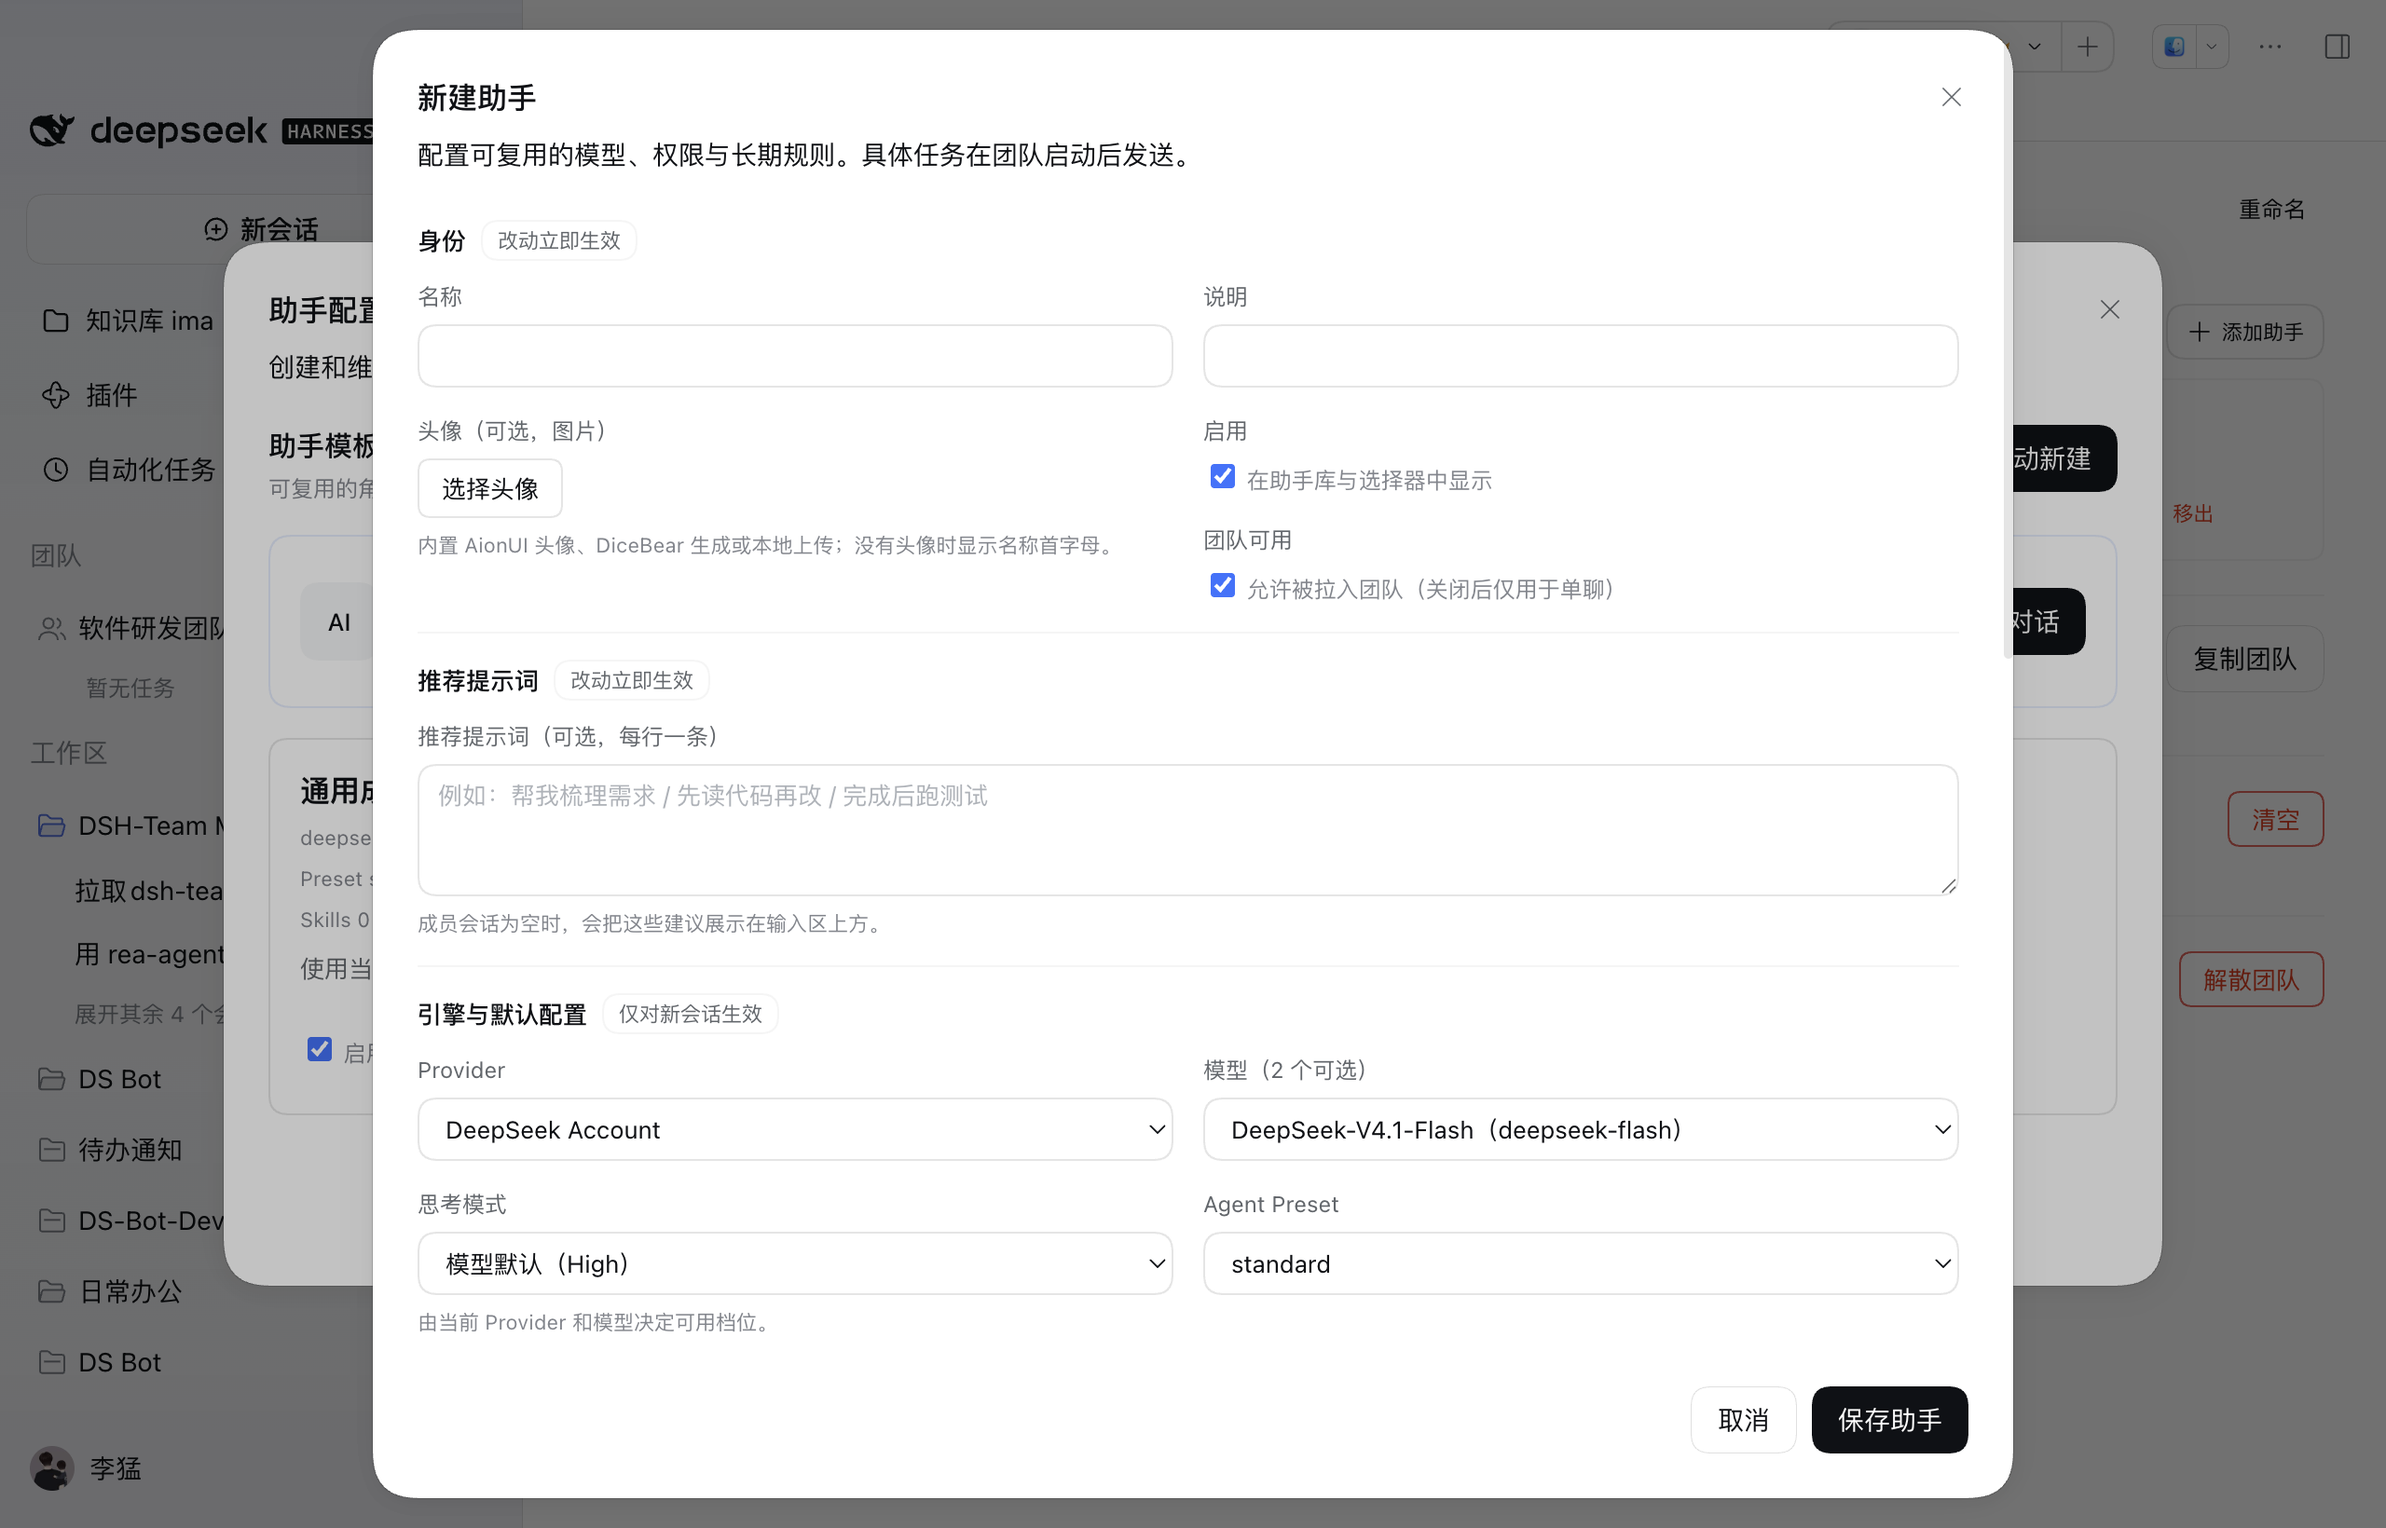
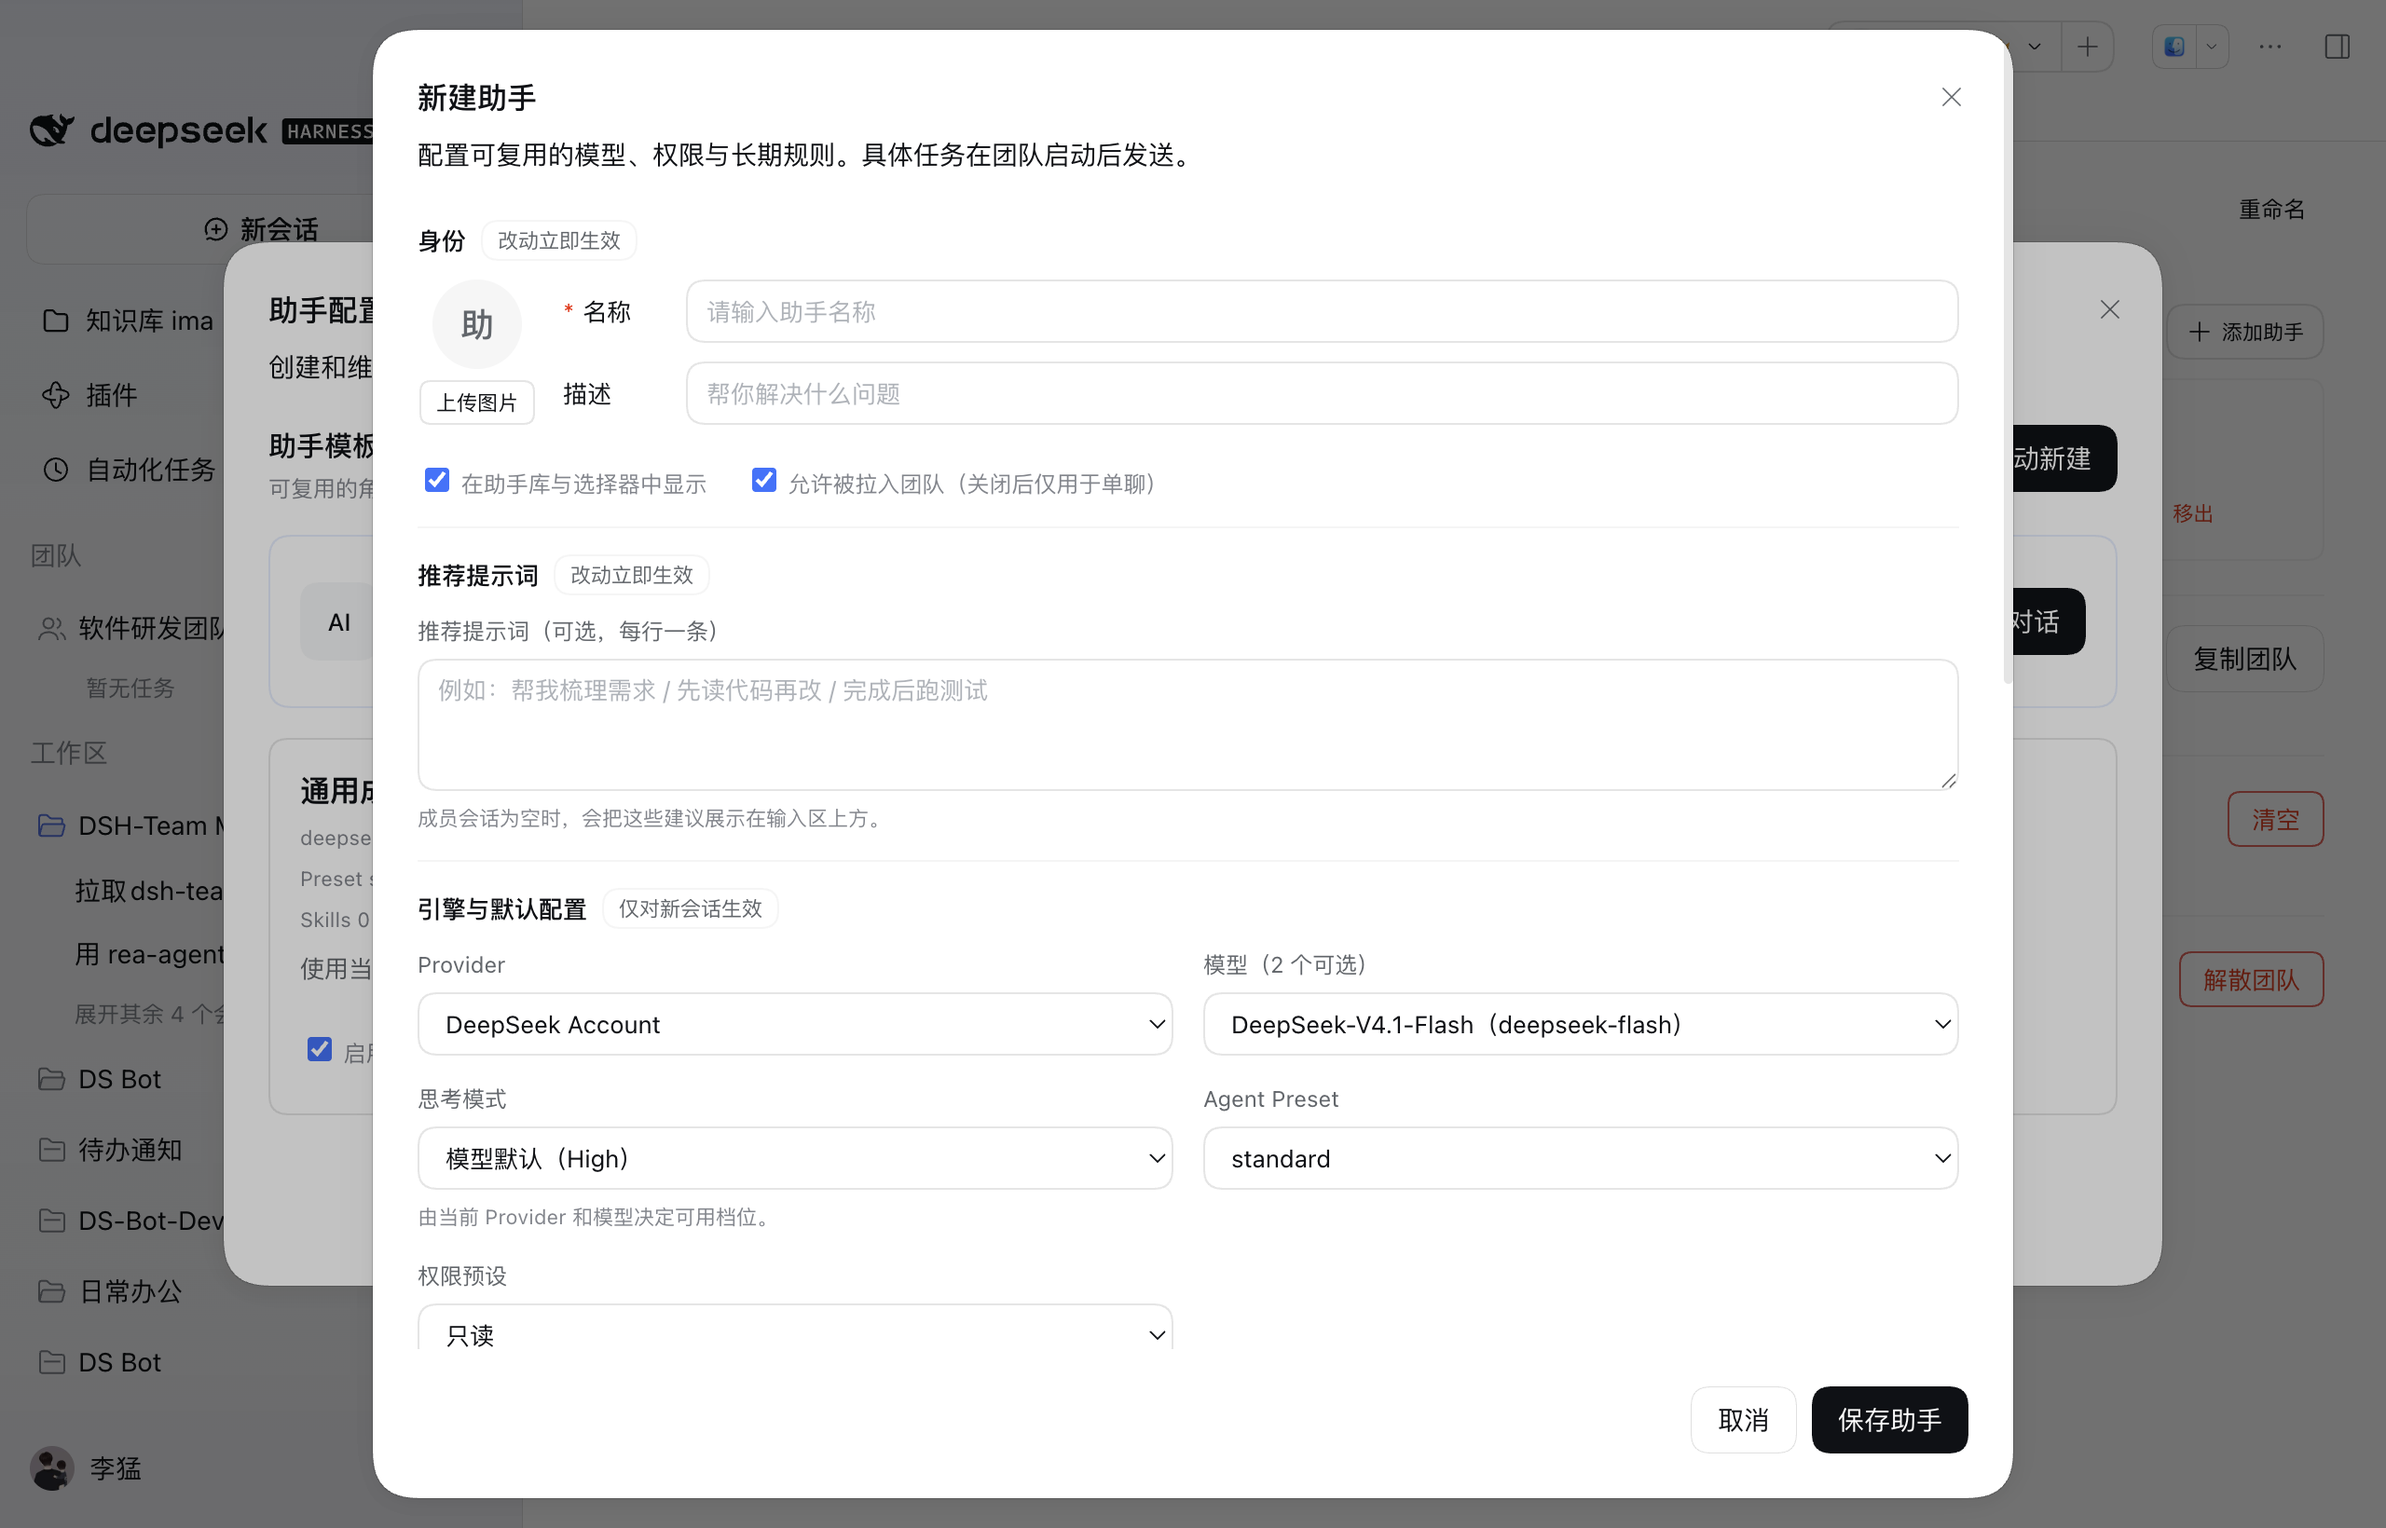
style(ui): inline assistant identity form

diff --git a/src/client/assistants/AssistantPanel.tsx b/src/client/assistants/AssistantPanel.tsx
@@ -1,5 +1,6 @@
 import type { FormEvent } from 'react'
 import { BUILTIN_ASSISTANT_AVATARS } from '../assistant-avatars.js'
+import { MemberAvatar } from '../member-avatar.js'
 
 const DICEBEAR_STYLES = [
   { id: 'bottts', label: '机器人' },
@@ -1126,38 +1127,39 @@ function AssistantForm({
           <strong>身份</strong>
           <span className={css.assistantFormSectionHint}>改动立即生效</span>
         </div>
-        <div className={css.formGrid}>
-        <Field label="名称"><input required value={name} onChange={event => { setName(event.target.value) }} className={css.input} /></Field>
-        <Field label="说明"><input value={description} onChange={event => { setDescription(event.target.value) }} className={css.input} /></Field>
-        <Field label="头像（可选，图片）">
-          <div className={css.avatarField}>
-            {avatar !== '' && <img className={css.avatarPreview} src={avatar} alt="头像预览" />}
-            <button type="button" className={css.avatarUpload} onClick={() => { setDraftAvatar(avatar); setAvatarPickerOpen(true) }}>
-              选择头像
+        <div className={css.assistantIdentityGrid}>
+          <div className={css.assistantIdentityAvatar}>
+            <MemberAvatar name={name.trim() || '助手'} avatar={avatar !== '' ? avatar : undefined} size={48} />
+            <button type="button" className={css.assistantAvatarButton} onClick={() => { setDraftAvatar(avatar); setAvatarPickerOpen(true) }}>
+              {avatar === '' ? '上传图片' : '更换图片'}
             </button>
             {avatar !== '' && (
               <button type="button" className={css.assistantRemoveAvatar} onClick={() => { setAvatar('') }}>
-                移除头像
+                移除
               </button>
             )}
           </div>
-          <span className={css.hint}>内置 AionUI 头像、DiceBear 生成或本地上传；没有头像时显示名称首字母。</span>
-        </Field>
-        <div className={css.assistantToggleColumn}>
-          <Field label="启用">
-            <label className={css.muted}>
-              <input type="checkbox" checked={enabled} onChange={event => { setEnabled(event.target.checked) }} />
-              {' '}在助手库与选择器中显示
+          <div className={css.assistantIdentityFields}>
+            <label className={css.assistantInlineField}>
+              <span className={css.assistantInlineLabel}><span className={css.assistantRequired} aria-hidden="true">*</span> 名称</span>
+              <input required value={name} onChange={event => { setName(event.target.value) }} className={css.input} placeholder="请输入助手名称" />
             </label>
-          </Field>
-          <Field label="团队可用">
-            <label className={css.muted}>
-              <input type="checkbox" checked={teamSelectable} onChange={event => { setTeamSelectable(event.target.checked) }} />
-              {' '}允许被拉入团队（关闭后仅用于单聊）
+            <label className={css.assistantInlineField}>
+              <span className={css.assistantInlineLabel}>描述</span>
+              <input value={description} onChange={event => { setDescription(event.target.value) }} className={css.input} placeholder="帮你解决什么问题" />
             </label>
-          </Field>
+          </div>
         </div>
-      </div>
+        <div className={css.assistantToggleRow}>
+          <label className={css.muted}>
+            <input type="checkbox" checked={enabled} onChange={event => { setEnabled(event.target.checked) }} />
+            {' '}在助手库与选择器中显示
+          </label>
+          <label className={css.muted}>
+            <input type="checkbox" checked={teamSelectable} onChange={event => { setTeamSelectable(event.target.checked) }} />
+            {' '}允许被拉入团队（关闭后仅用于单聊）
+          </label>
+        </div>
       </div>
       <div className={css.assistantFormSection}>
         <div className={css.assistantFormSectionHeading}>

diff --git a/src/client/AgentTeam.module.css b/src/client/AgentTeam.module.css
@@ -6090,3 +6090,83 @@ html:has([data-team-parallel-anchor]) [data-team-pane] [class*="teamMemberHeroHi
   gap: 14px;
   min-width: 0;
 }
+
+.assistantIdentityGrid {
+  display: grid;
+  grid-template-columns: 64px minmax(0, 1fr);
+  gap: 12px 14px;
+  align-items: start;
+}
+
+.assistantIdentityAvatar {
+  display: flex;
+  flex-direction: column;
+  align-items: center;
+  gap: 6px;
+  min-width: 0;
+}
+
+.assistantAvatarButton {
+  display: inline-flex;
+  align-items: center;
+  justify-content: center;
+  height: 24px;
+  padding: 0 8px;
+  border: 1px solid var(--dsw-alias-border-l2);
+  border-radius: 7px;
+  background: var(--dsw-alias-bg-layer-1);
+  color: var(--dsw-alias-label-primary);
+  font-size: 11px;
+  line-height: 1;
+  white-space: nowrap;
+  cursor: pointer;
+}
+
+.assistantAvatarButton:hover {
+  background: var(--dsw-alias-interactive-bg-hover);
+}
+
+.assistantAvatarButton:focus-visible {
+  outline: 2px solid var(--dsw-alias-brand-primary);
+  outline-offset: 2px;
+}
+
+.assistantIdentityFields {
+  display: flex;
+  flex-direction: column;
+  gap: 10px;
+  min-width: 0;
+}
+
+.assistantInlineField {
+  display: grid;
+  grid-template-columns: 56px minmax(0, 1fr);
+  align-items: center;
+  gap: 10px;
+  min-width: 0;
+}
+
+.assistantInlineLabel {
+  color: var(--dsw-alias-label-primary);
+  font-size: 13px;
+  white-space: nowrap;
+}
+
+.assistantRequired {
+  color: var(--dsw-alias-state-error-primary);
+  margin-right: 1px;
+}
+
+.assistantInlineField .input {
+  width: 100%;
+  min-width: 0;
+}
+
+.assistantToggleRow {
+  display: flex;
+  flex-wrap: wrap;
+  gap: 8px 20px;
+  margin-top: 10px;
+  color: var(--dsw-alias-label-secondary);
+  font-size: 12px;
+}

diff --git a/docs/UI-REVIEW.md b/docs/UI-REVIEW.md
@@ -484,3 +484,17 @@ sqlite3 "$HOME/Library/Application Support/@deepseek-ai/dsh-desktop/Cookies" \
 - 整体身份区从 4 行压缩为 2 行（+提示文字），后续「推荐提示词」「引擎与默认配置」整体上移。
 
 截图：`docs/assets/ui-review/assistant-editor-identity.png`。
+
+---
+
+## 三十九、身份区改为参考图的内联布局
+
+参照 AionUI 的助手表单：
+
+- 左侧 48px 圆形头像 + 下方「上传图片 / 更换图片」小按钮；有头像时追加「移除」。
+- 右侧两行内联字段：`* 名称`、`描述`，标签固定 56px，输入框占满剩余宽度。
+- 名称不再独占整行，整体从 4 行压到 2 行。
+- 「启用」「团队可用」收成一行紧凑复选框，位于表单下方。
+- 保留 `请输入助手名称` / `帮你解决什么问题` 占位提示。
+
+截图更新：`docs/assets/ui-review/assistant-editor-identity.png`。
